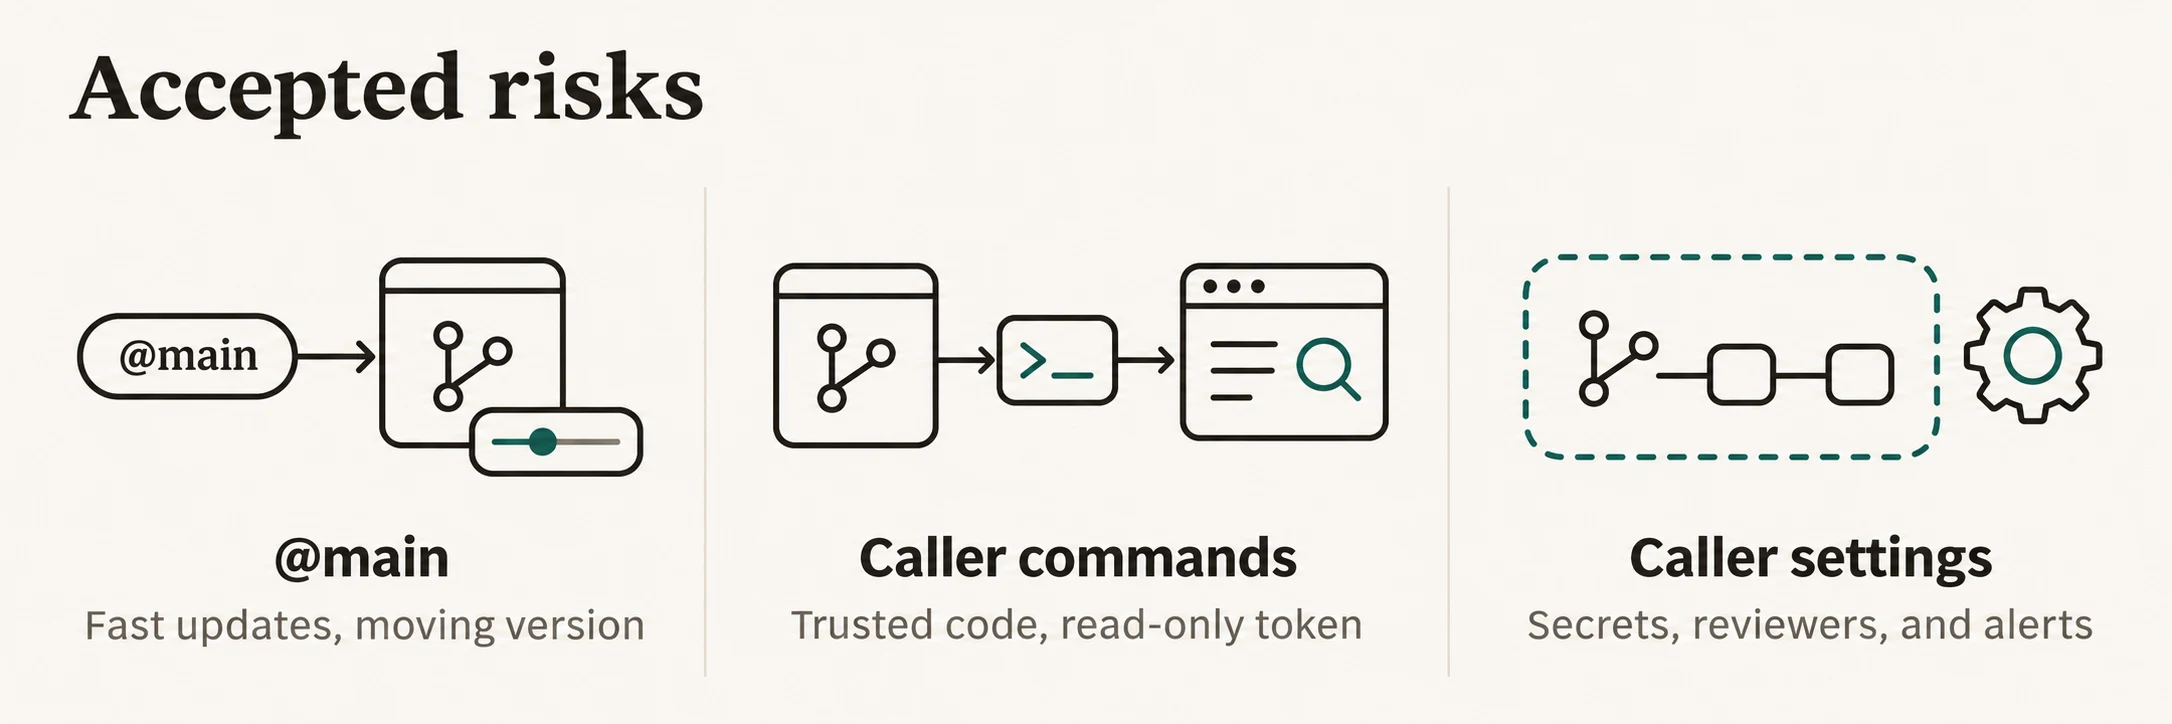
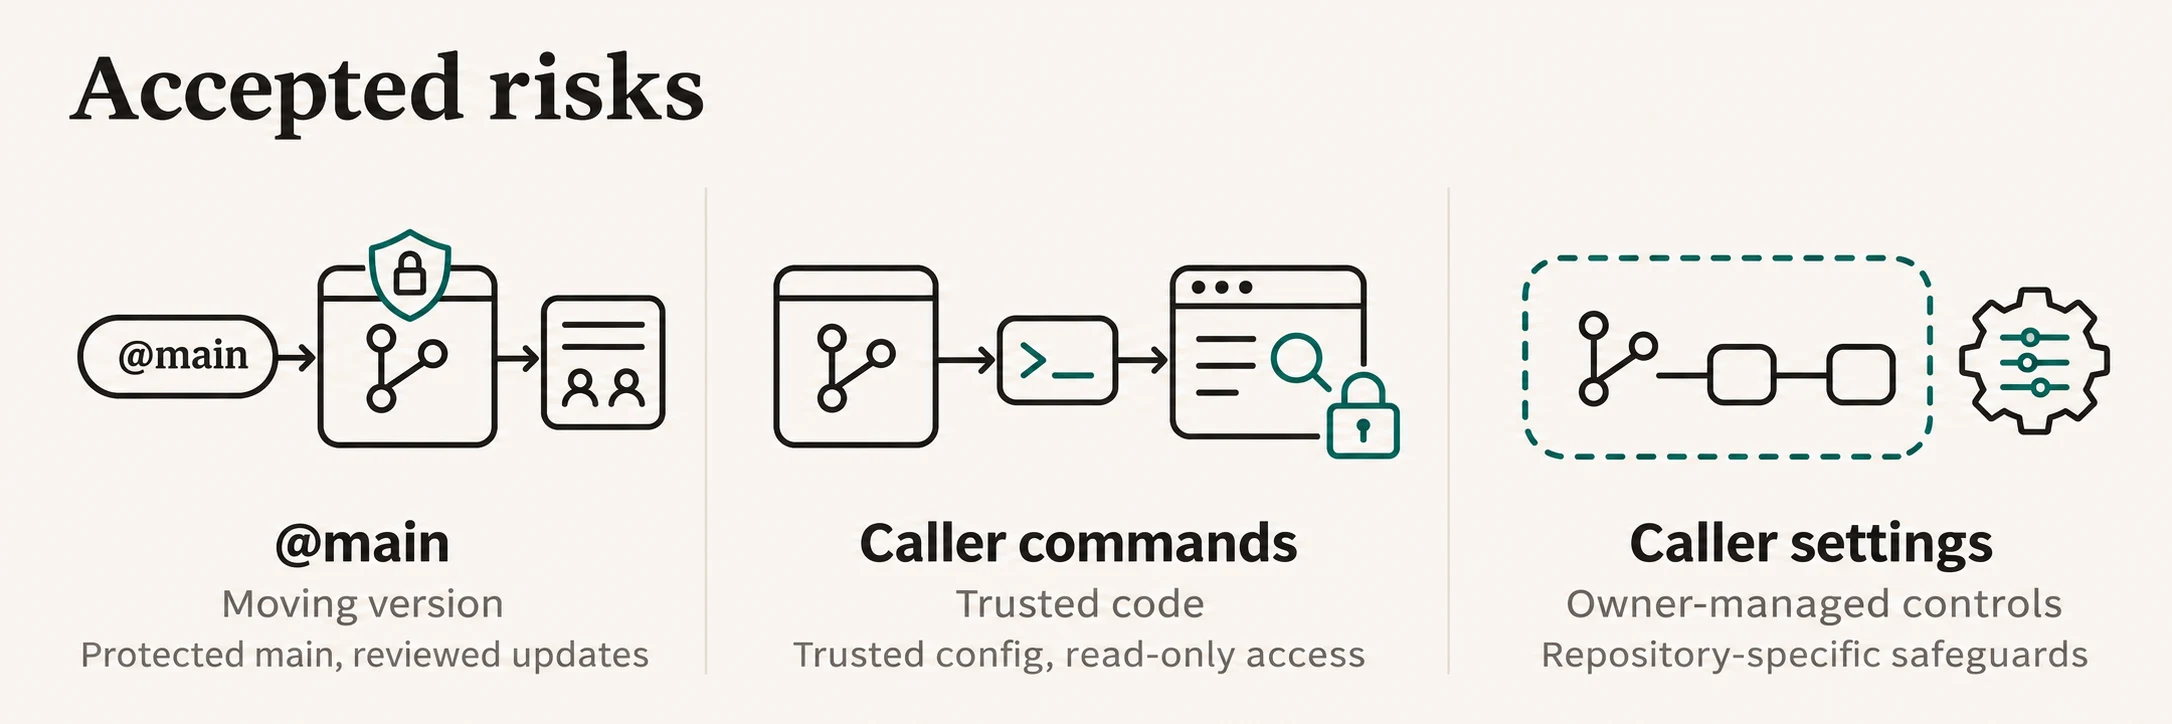
docs(security): explain accepted tradeoffs

diff --git a/docs/security.md b/docs/security.md
@@ -10,7 +10,7 @@ It follows [GitHub's secure-use reference](https://docs.github.com/en/actions/re
 
 These controls leave a few risks for each caller to assess and manage:
 
-![Accepted risks: using @main gives callers fast updates but a moving version; caller-configured commands are trusted code even with a read-only token; and each caller manages secrets, reviewers, and repository alerts.](figures/accepted-risks.webp)
+![Accepted risks and why they are acceptable: @main is a moving version protected by reviewed updates to the default branch; caller commands are trusted configuration and run with read-only access; repository-specific safeguards remain owner-managed settings.](figures/accepted-risks.webp)
 
 ## Trust boundaries
 
